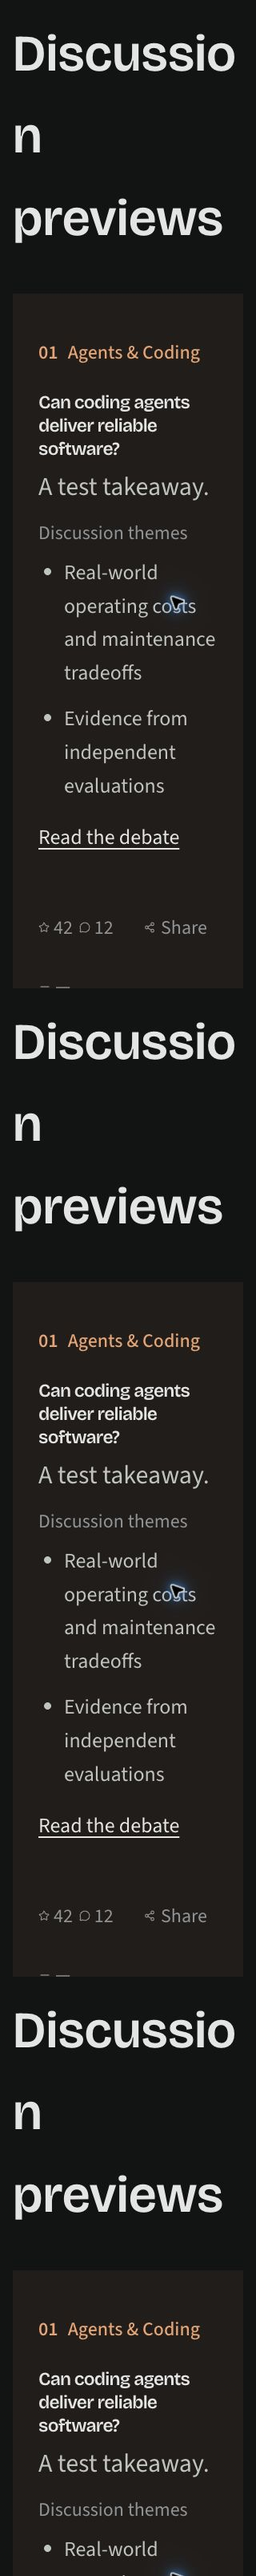
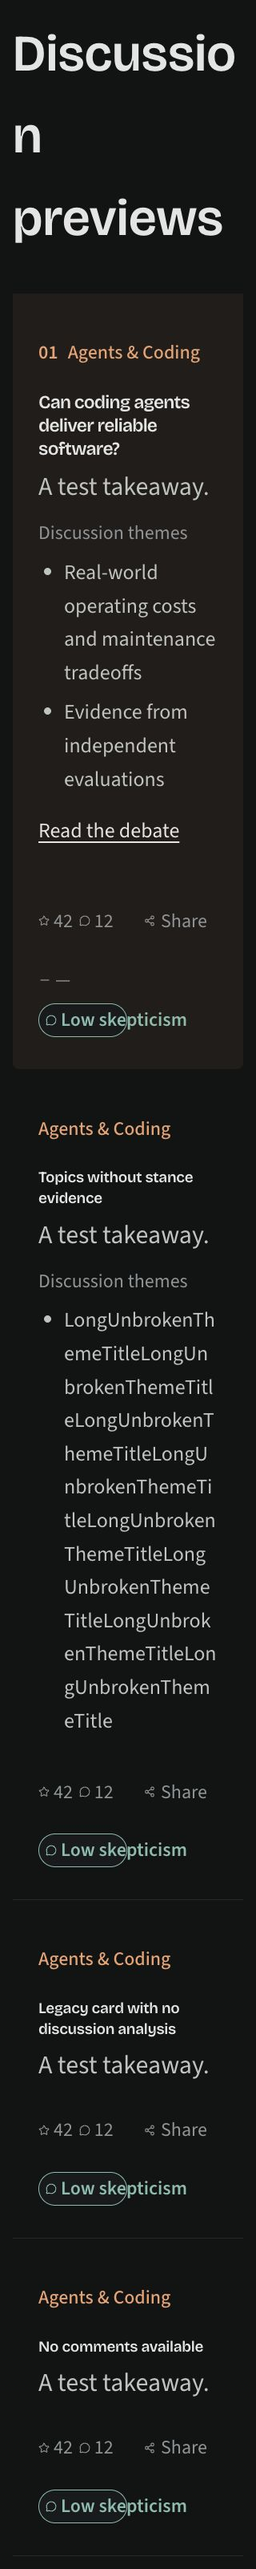
Stack discussion theme bullets on separate rows

diff --git a/hacksnap/web/app/globals.css b/hacksnap/web/app/globals.css
@@ -1692,8 +1692,8 @@ footer > span {
 }
 .feed-discussion-themes ul {
   display: flex;
-  flex-wrap: wrap;
-  gap: var(--space-2) var(--space-4);
+  flex-direction: column;
+  gap: var(--space-1);
   margin: var(--space-1) 0 0;
   padding: 0;
   color: var(--prose);
